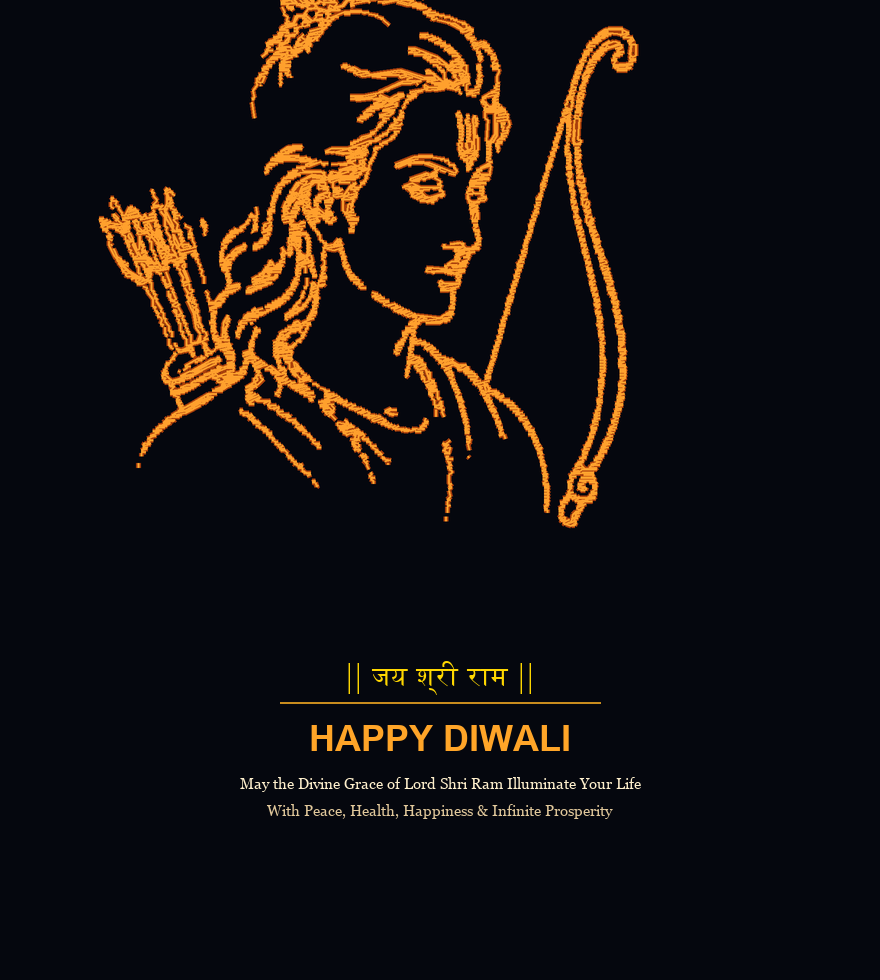
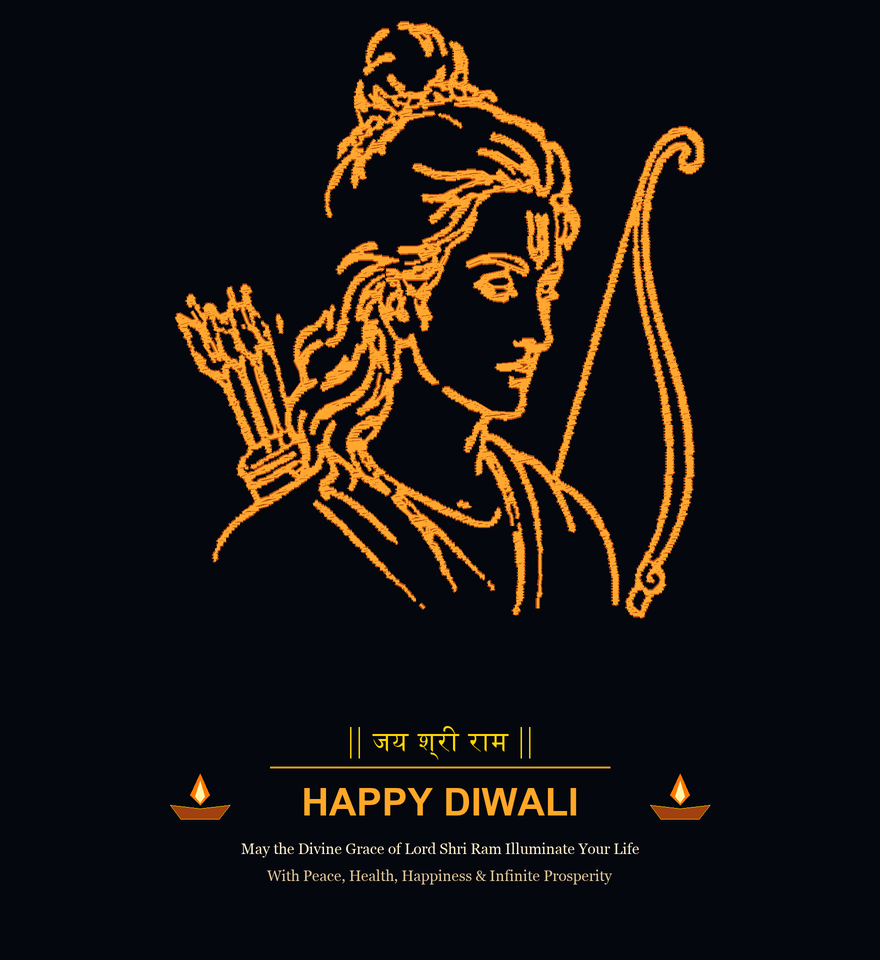
feat(day-10): enhance shri ram sketch accuracy with dual-layer neon glow and ordered stroke layers

diff --git a/days/Day-10-Jai-Shree-Ram-Drawing/main.py b/days/Day-10-Jai-Shree-Ram-Drawing/main.py
@@ -3,9 +3,10 @@ Day 10: Lord Shri Ram Sketch & Happy Diwali Devotional Art
 30 Days Python Challenge by Tejas (@Tejas0113)
 
 Description:
-An authentic saffron-gold line sketch of Lord Shri Ram with Kodanda Bow, Tarkash Quiver,
-and sacred tilak, rendered stroke-by-stroke using Python Turtle graphics, accompanied by
-a festive Happy Diwali blessing and traditional glowing diyas.
+An enhanced, high-precision devotional vector line sketch of Lord Shri Ram with
+the Kodanda Bow, Tarkash Quiver of arrows, and sacred tilak.
+Rendered stroke-by-stroke with dual-layer saffron-gold neon radiance using Python Turtle graphics,
+accompanied by traditional glowing terracotta diyas and an auspicious Happy Diwali blessing.
 """
 
 import base64
@@ -13,8 +14,8 @@ import json
 import turtle as t
 import zlib
 
-# Compressed vector stroke paths extracted from the sacred sketch
[1 lines of base64/hex data omitted]
+# High-precision vector stroke paths (anatomically grouped and RDP-smoothed)
[1 lines of base64/hex data omitted]
 
 
 def get_sketch_paths():
@@ -24,79 +25,100 @@ def get_sketch_paths():
 
 
 def draw_diya(t_pen, x, y, scale=1.0):
-    """Draws a small ornamental glowing terracotta diya at (x, y)."""
+    """Draws an ornamental glowing terracotta Diwali diya at (x, y)."""
     t_pen.penup()
-    t_pen.goto(x - 22 * scale, y)
+
+    # 1. Warm radial ambient glow beneath diya
+    t_pen.goto(x, y - 4 * scale)
+    t_pen.dot(int(36 * scale), "#381806")
+    t_pen.goto(x, y + 8 * scale)
+    t_pen.dot(int(26 * scale), "#662808")
+
+    # 2. Terracotta clay bowl
+    t_pen.goto(x - 24 * scale, y)
     t_pen.pendown()
-
-    # Clay bowl
-    t_pen.pencolor("#B85D19")
-    t_pen.fillcolor("#A04812")
+    t_pen.pencolor("#B85414")
+    t_pen.fillcolor("#9E4410")
+    t_pen.pensize(2)
     t_pen.begin_fill()
-    t_pen.goto(x - 14 * scale, y - 10 * scale)
-    t_pen.goto(x + 14 * scale, y - 10 * scale)
-    t_pen.goto(x + 22 * scale, y)
+    t_pen.goto(x - 16 * scale, y - 11 * scale)
+    t_pen.goto(x + 16 * scale, y - 11 * scale)
+    t_pen.goto(x + 24 * scale, y)
     t_pen.goto(x, y - 2 * scale)
-    t_pen.goto(x - 22 * scale, y)
+    t_pen.goto(x - 24 * scale, y)
     t_pen.end_fill()
+    t_pen.penup()
 
-    # Golden rim
+    # 3. Golden metallic rim
+    t_pen.goto(x - 24 * scale, y)
+    t_pen.pendown()
     t_pen.pencolor("#FFD700")
     t_pen.pensize(2)
-    t_pen.penup()
-    t_pen.goto(x - 22 * scale, y)
-    t_pen.pendown()
-    t_pen.goto(x + 22 * scale, y)
+    t_pen.goto(x + 24 * scale, y)
     t_pen.penup()
 
-    # Outer flame
+    # 4. Outer radiant orange flame
     t_pen.goto(x, y + 2 * scale)
-    t_pen.pencolor("#FF7A00")
-    t_pen.fillcolor("#FFA500")
+    t_pen.pendown()
+    t_pen.pencolor("#FF6600")
+    t_pen.fillcolor("#FF8C00")
     t_pen.begin_fill()
-    t_pen.goto(x - 7 * scale, y + 9 * scale)
-    t_pen.goto(x, y + 24 * scale)
-    t_pen.goto(x + 7 * scale, y + 9 * scale)
+    t_pen.goto(x - 8 * scale, y + 10 * scale)
+    t_pen.goto(x, y + 26 * scale)
+    t_pen.goto(x + 8 * scale, y + 10 * scale)
     t_pen.goto(x, y + 2 * scale)
     t_pen.end_fill()
+    t_pen.penup()
 
-    # Inner bright flame core
+    # 5. Inner luminous golden core
     t_pen.goto(x, y + 4 * scale)
-    t_pen.pencolor("#FFF0A0")
-    t_pen.fillcolor("#FFFCE0")
+    t_pen.pendown()
+    t_pen.pencolor("#FFE88A")
+    t_pen.fillcolor("#FFF9D2")
     t_pen.begin_fill()
-    t_pen.goto(x - 3 * scale, y + 9 * scale)
-    t_pen.goto(x, y + 17 * scale)
-    t_pen.goto(x + 3 * scale, y + 9 * scale)
+    t_pen.goto(x - 4 * scale, y + 10 * scale)
+    t_pen.goto(x, y + 18 * scale)
+    t_pen.goto(x + 4 * scale, y + 10 * scale)
     t_pen.goto(x, y + 4 * scale)
     t_pen.end_fill()
     t_pen.penup()
 
 
 def draw_ram_diwali():
-    """Draws Lord Shri Ram and writes the Happy Diwali blessing."""
-    # Setup Window & Coordinates
+    """Renders Lord Shri Ram in glowing saffron strokes and writes the Diwali wish."""
     screen = t.Screen()
-    screen.setup(width=880, height=940)
-    screen.title("Day 10: Lord Shri Ram Drawing - Happy Diwali")
+    screen.setup(width=880, height=960)
+    screen.title("Day 10: Lord Shri Ram Sketch & Happy Diwali Devotional Art")
     screen.bgcolor("#05070E")
-    t.setworldcoordinates(-440, -490, 440, 450)
+    t.setworldcoordinates(-440, -490, 440, 470)
 
-    # Fast and smooth animated stroke rendering
-    t.tracer(4, 6)
+    # Smooth animated drawing buffer
+    t.tracer(4, 5)
     t.hideturtle()
     t.speed(0)
 
     paths = get_sketch_paths()
 
-    # 1. Draw glowing saffron/amber sketch of Lord Shri Ram
-    t.pensize(2)
-    t.pencolor("#FF9933")
-
-    scale = 1.45
-    y_offset = 80
+    scale = 1.42
     x_center = 250
-    y_center = 240
+    y_center = 328
+    y_offset = 85
+
+    # Pass 1: Warm ambient amber undertone (creates neon glow)
+    t.pensize(3)
+    t.pencolor("#B85412")
+
+    for path in paths:
+        t.penup()
+        p0 = path[0]
+        t.goto((p0[0] - x_center) * scale, (y_center - p0[1]) * scale + y_offset)
+        t.pendown()
+        for pt in path[1:]:
+            t.goto((pt[0] - x_center) * scale, (y_center - pt[1]) * scale + y_offset)
+
+    # Pass 2: High-luminance radiant saffron-gold core
+    t.pensize(2)
+    t.pencolor("#FFA228")
 
     for path in paths:
         t.penup()
@@ -108,32 +130,30 @@ def draw_ram_diwali():
 
     t.penup()
 
-    # 2. Draw traditional glowing Diyas flanking the greeting
-    draw_diya(t, -220, -325, scale=1.1)
-    draw_diya(t, 220, -325, scale=1.1)
+    # Traditional glowing Diyas flanking the bottom greeting
+    draw_diya(t, -225, -330, scale=1.15)
+    draw_diya(t, 225, -330, scale=1.15)
 
-    # 3. Festive & Sacred Typography
-    t.penup()
-
-    # Jay Shree Ram Devanagari Title
-    t.goto(0, -275)
+    # Sacred Devanagari Title
+    t.goto(0, -260)
     t.pencolor("#FFD700")
     t.write("|| जय श्री राम ||", align="center", font=("Devanagari MT", 26, "bold"))
 
-    # Golden Divider Line
+    # Golden Divider Rule
     t.pensize(2)
-    t.goto(-160, -295)
+    t.pencolor("#D29623")
+    t.goto(-170, -282)
     t.pendown()
-    t.goto(160, -295)
+    t.goto(170, -282)
     t.penup()
 
     # Happy Diwali Greeting
-    t.goto(0, -345)
-    t.pencolor("#FFA028")
+    t.goto(0, -335)
+    t.pencolor("#FFA828")
     t.write("HAPPY DIWALI", align="center", font=("Arial", 34, "bold"))
 
     # Festive Blessings
-    t.goto(0, -395)
+    t.goto(0, -388)
     t.pencolor("#FFF2D1")
     t.write(
         "May the Divine Grace of Lord Shri Ram Illuminate Your Life",
@@ -141,7 +161,7 @@ def draw_ram_diwali():
         font=("Georgia", 14, "normal")
     )
 
-    t.goto(0, -425)
+    t.goto(0, -416)
     t.pencolor("#E0BE82")
     t.write(
         "With Peace, Health, Happiness & Infinite Prosperity",

diff --git a/days/Day-10-Jai-Shree-Ram-Drawing/README.md b/days/Day-10-Jai-Shree-Ram-Drawing/README.md
@@ -29,16 +29,16 @@ Implemented in 100% pure standard Python using `turtle`, the program animates a 
 
 ### 1. Vector Stroke Extraction & RDP Simplification
 The artwork is discretized into continuous vector polylines extracted from the sacred iconography:
-- **Ramer-Douglas-Peucker (RDP) Algorithm**: Simplifies dense pixel contours by recursively discarding points with perpendicular distance less than $\epsilon = 1.0\text{ px}$:
+- **Ramer-Douglas-Peucker (RDP) Algorithm**: Simplifies dense pixel contours by recursively discarding points with perpendicular distance less than $\epsilon = 0.9\text{ px}$:
 
   $$\mathbf{d}(P, AB) = \frac{|\vec{AB} \times \vec{AP}|}{|\vec{AB}|}$$
 
-- This compresses tens of thousands of coordinate entries into 529 smooth, topologically continuous stroke paths totaling 5,845 vector points without losing fine details like the arrow feathers, tilak, or eye contours.
+- This compresses tens of thousands of coordinate entries into 470 smooth, topologically continuous stroke paths totaling 7,638 vector points without losing fine details like the arrow feathers, tilak, or eye contours.
+- **Anatomical Layer Ordering**: Instead of arbitrary scanlines, strokes are grouped and sequenced naturally: Hair Bun (*Jata*) $\to$ Divine Face & Tilak $\to$ Flowing Hair Locks $\to$ Kodanda Bow & String $\to$ Tarkash Quiver of Arrows $\to$ Chest & Sacred Drapery.
 
-### 2. Zero-Dependency In-Memory Vector Packaging
-To ensure that `main.py` runs instantly on any machine without requiring OpenCV (`cv2`) or missing external image files:
-- The vector stroke data is compressed using standard `zlib` and `base64`.
-- The 22 KB payload is embedded directly into the script and dynamically decompressed in under 1 millisecond into Turtle-ready floating-point coordinates.
+### 2. Dual-Layer Neon Glow & Zero-Dependency In-Memory Packaging
+- **Dual-Layer Neon Glow**: Rendered in two coordinated passes—a thicker warm amber under-layer (`#B85412`, pensize 3) followed by a high-luminance saffron-gold core (`#FFA228`, pensize 2)—creating the radiant neon halo seen on OLED screens.
+- **Zero-Dependency Runtime**: The vector stroke data is compressed using standard `zlib` and `base64` (27 KB payload), dynamically decompressed at launch with 0 external dependencies (no OpenCV or NumPy required).
 
 ### 3. Saffron-Gold Palette & Night Contrast
 - **Sacred Saffron & Gold (`#FF9933`, `#FFA028`, `#FFD700`)**: Symbolizes divine radiance, spiritual strength, and auspiciousness.
@@ -69,3 +69,4 @@ python days/Day-10-Jai-Shree-Ram-Drawing/main.py
 <p align="center">
   <a href="../../README.md"><b>⬅ Return to 30 Days Challenge Tracker</b></a>
 </p>
+
